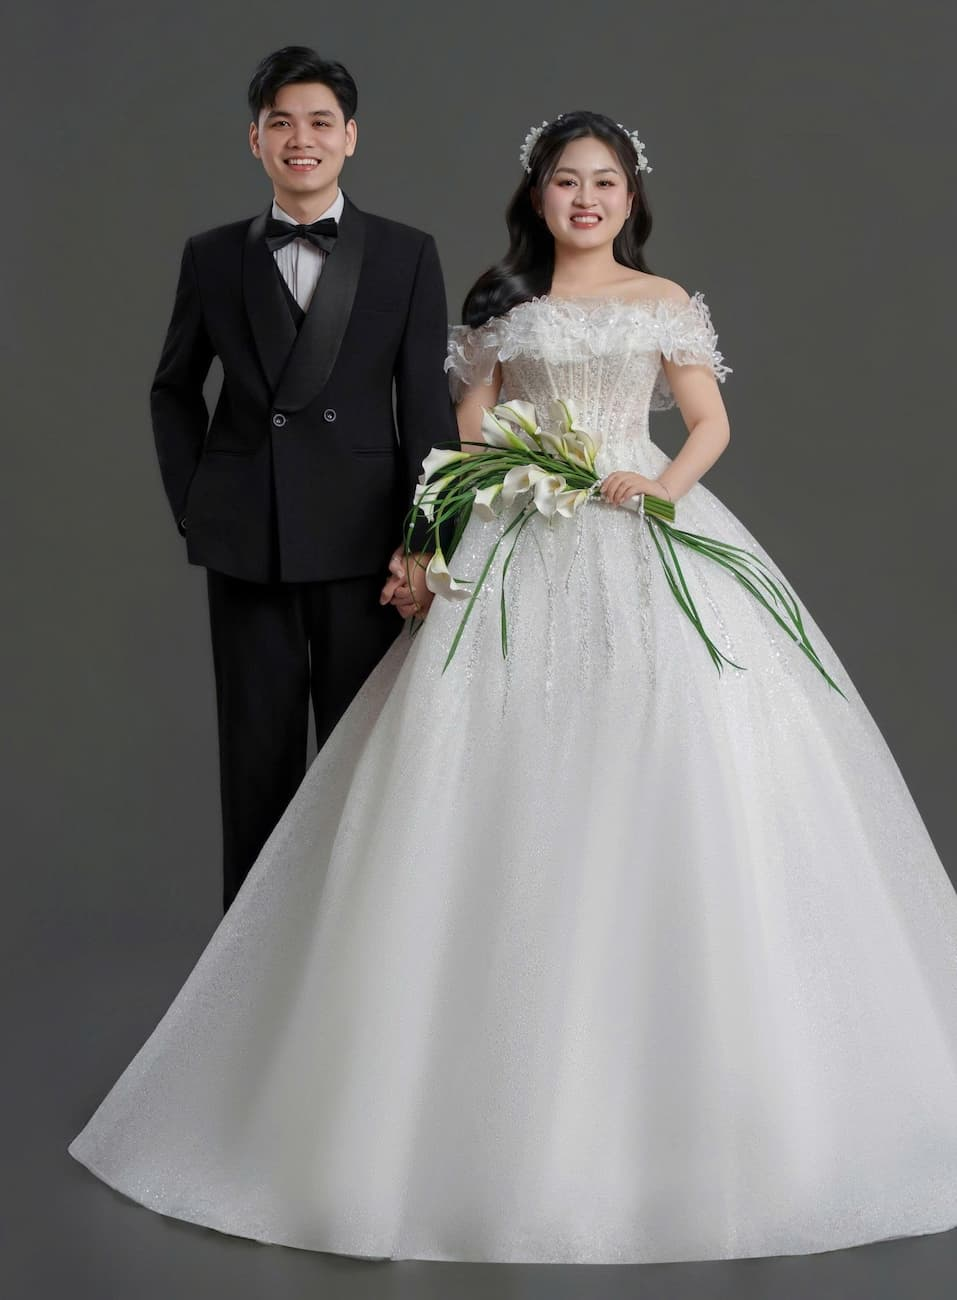
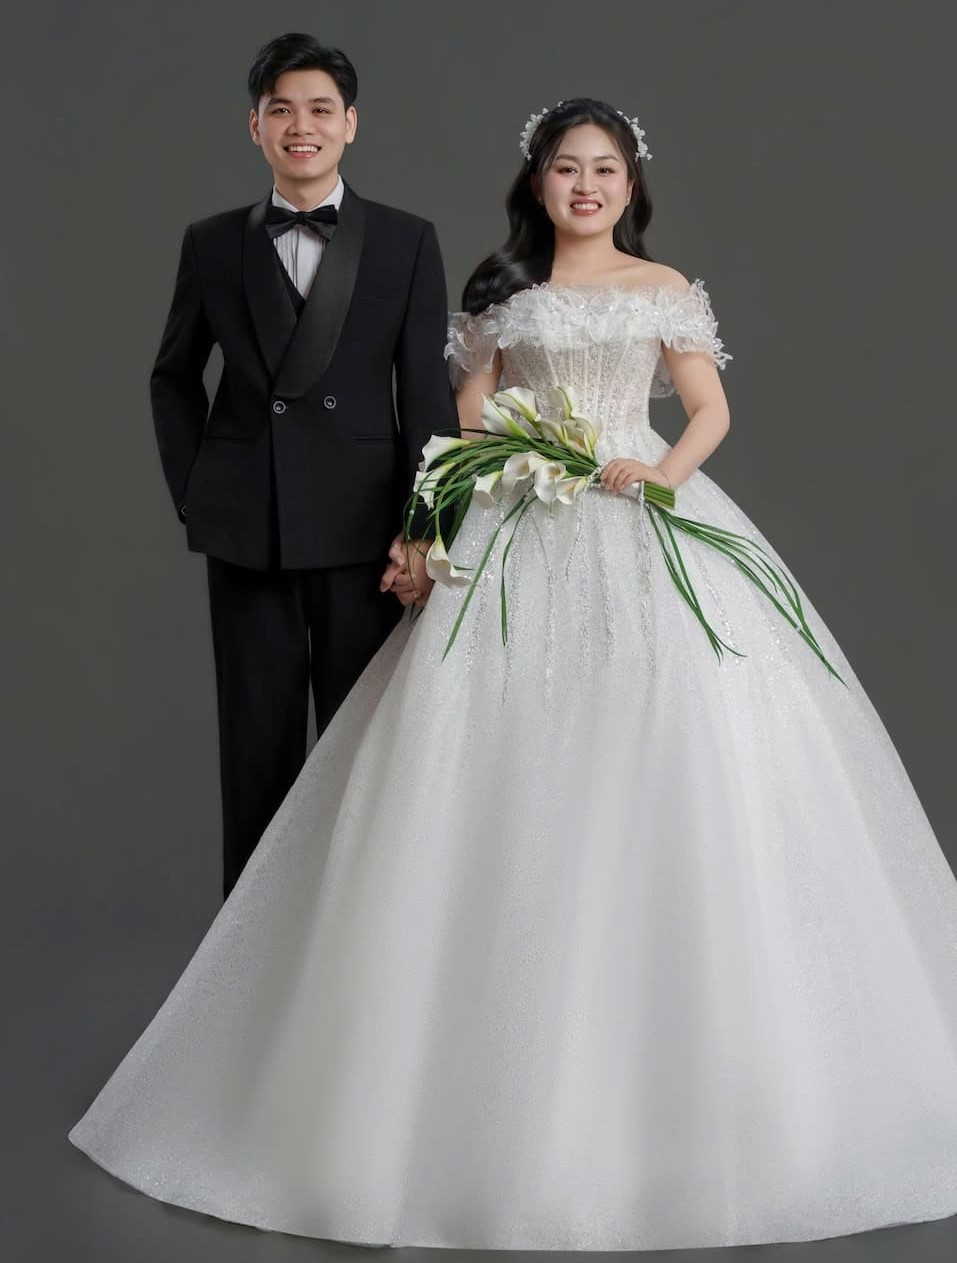
update

diff --git a/index.html b/index.html
@@ -7,7 +7,7 @@
   <title>Thiệp cưới | Trung Hiếu & Quỳnh Thuận</title>
   <meta name="description" content="Thiệp mời lễ cưới Trung Hiếu & Quỳnh Thuận" />
   <!-- Open Graph (hiển thị preview khi gửi link) -->
-<meta property="og:title" content="Thiệp cưới Trung Hiếu & Quỳnh Thuận" />
+<meta property="og:title" content="💍 Trung Hiếu & Quỳnh Thuận | Wedding Invitation" />
 <meta property="og:description" content="Trân trọng kính mời bạn đến chung vui trong ngày cưới của chúng mình." />
 <meta property="og:image" content="https://hieuttuet.github.io/wedding-invite/cover.jpg" />
 <meta property="og:url" content="https://hieuttuet.github.io/wedding-invite/" />
@@ -17,7 +17,7 @@
 
 <!-- Twitter / Messenger preview -->
 <meta name="twitter:card" content="summary_large_image" />
-<meta name="twitter:title" content="Thiệp cưới Trung Hiếu & Quỳnh Thuận" />
+<meta name="twitter:title" content="💍 Trung Hiếu & Quỳnh Thuận | Wedding Invitation" />
 <meta name="twitter:description" content="Trân trọng kính mời bạn đến chung vui trong ngày cưới của chúng mình." />
 <meta name="twitter:image" content="https://hieuttuet.github.io/wedding-invite/cover.jpg" />
 
@@ -45,7 +45,6 @@
       --shadow2: 0 20px 70px rgba(0, 0, 0, .18);
       --r: 18px;
       --rBig: 26px;
-
       /* parallax */
       --px: 0px;
       --py: 0px;
